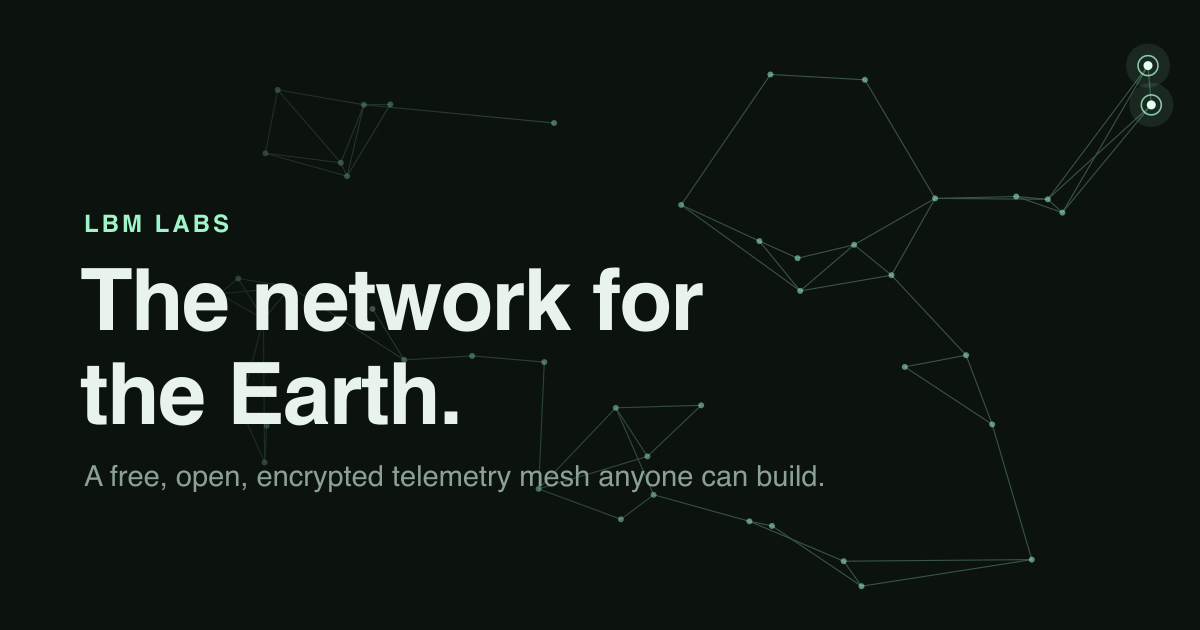
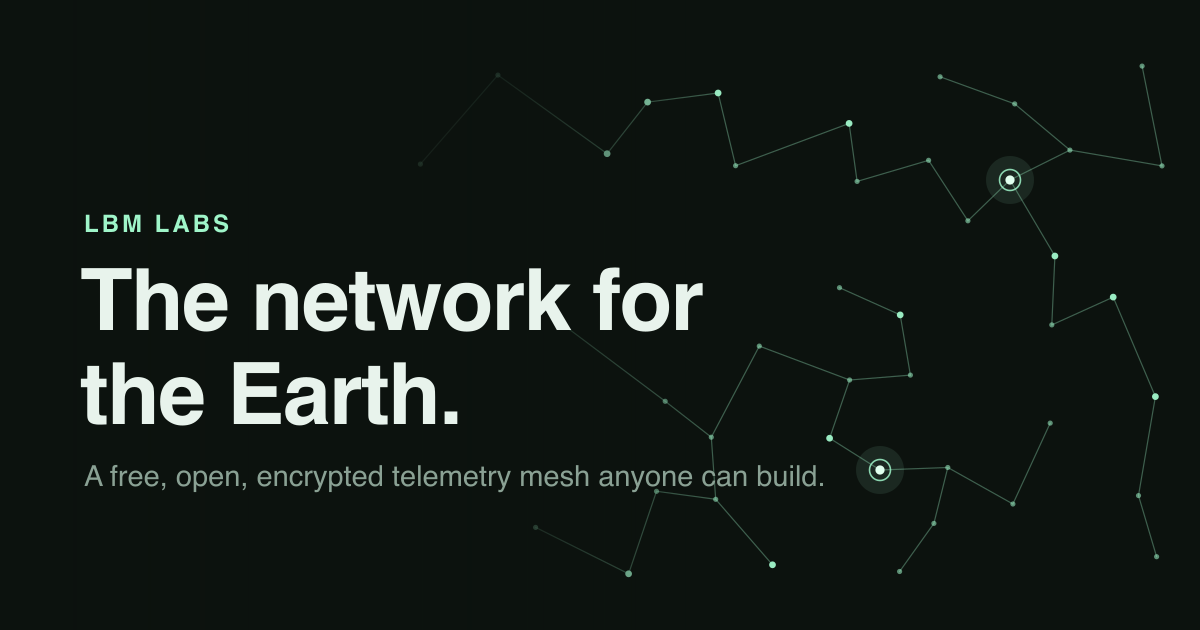
site: regenerate OG card — mesh now a radial tree from two gateways
The previous mesh was random nearest-neighbour links with the two
gateways jammed in the corner. Rebuilt as a Prim/MST tree grown from two
well-spread gateway hubs (like the animation's primary links): organic,
mostly non-crossing, evenly distributed across the right, a few brighter
nodes for life. Reads like the hero now.

diff --git a/scripts/make-og.py b/scripts/make-og.py
@@ -1,9 +1,9 @@
 #!/usr/bin/env python3
 """Generate the social-share card -> public/og.png (1200x630).
-Mirrors the hero: dark field, a living mesh with gateway hubs, the headline.
-Requires rsvg-convert (brew install librsvg) + Pillow.
-Run from the lbmlabs.org/ dir:  python3 scripts/make-og.py
-Regenerate whenever the headline/tagline changes."""
+Mirrors the hero: dark field, a living mesh that radiates from two gateway
+hubs (a Prim/MST tree, like the animation's primary links), the headline.
+Requires rsvg-convert (brew install librsvg).
+Run from the lbmlabs.org/ dir:  python3 scripts/make-og.py"""
 import random, subprocess, os
 
 W, H = 1200, 630
@@ -11,42 +11,61 @@ ACC, HOT, BG, INK, DIM = "#9ff5c9", "#e0ffee", "#0c120e", "#e8f3ec", "#8aa194"
 TITLE = ["The network for", "the Earth."]
 SUB = "A free, open, encrypted telemetry mesh anyone can build."
 
-random.seed(7)
-N = 46
-pts = []
-for _ in range(N):
-    x = (random.uniform(120, W - 40) / W) ** 0.8 * W   # bias toward the right
-    y = random.uniform(40, H - 40)
-    pts.append((x, y))
-links = set()
-for i, (x, y) in enumerate(pts):
-    d = sorted(range(N), key=lambda j: (pts[j][0] - x) ** 2 + (pts[j][1] - y) ** 2)
-    for j in d[1:4]:
-        if random.random() < 0.7:
-            links.add(tuple(sorted((i, j))))
-gws = sorted(range(N), key=lambda i: -pts[i][0])[:2]
+random.seed(11)
+# two gateways, spread out and well inside the right portion of the frame
+GWS = [(1010, 180), (880, 470)]
+# scatter nodes across the right ~65%, biased right, min-spaced
+NODES, MIN = [], 56
+tries = 0
+while len(NODES) < 40 and tries < 4000:
+    tries += 1
+    x = random.uniform(420, 1170)
+    y = random.uniform(55, 575)
+    if x < 660 and random.random() < 0.6:      # thin out the left (text lives there)
+        continue
+    if any((x - px) ** 2 + (y - py) ** 2 < MIN * MIN for px, py in NODES + GWS):
+        continue
+    NODES.append((x, y))
+
+pts = GWS + NODES                              # 0,1 = gateways
+# Prim MST grown from both gateways -> radial, non-crossing, organic
+connected = {0, 1}
+edges = []
+while len(connected) < len(pts):
+    best = bsrc = None; bd = 1e18
+    for j in range(len(pts)):
+        if j in connected:
+            continue
+        for i in connected:
+            d = (pts[i][0] - pts[j][0]) ** 2 + (pts[i][1] - pts[j][1]) ** 2
+            if d < bd:
+                bd, best, bsrc = d, j, i
+    edges.append((bsrc, best)); connected.add(best)
 
 FAM = "Inter, Helvetica, Arial, sans-serif"
 s = [f'<svg xmlns="http://www.w3.org/2000/svg" width="{W}" height="{H}" viewBox="0 0 {W} {H}">',
      f'<rect width="{W}" height="{H}" fill="{BG}"/>',
-     f'<g stroke="{ACC}" stroke-width="1.1" opacity="0.30">']
-for a, b in links:
+     f'<g stroke="{ACC}" stroke-width="1.2" opacity="0.34" stroke-linecap="round">']
+for a, b in edges:
     s.append(f'<line x1="{pts[a][0]:.1f}" y1="{pts[a][1]:.1f}" x2="{pts[b][0]:.1f}" y2="{pts[b][1]:.1f}"/>')
 s.append('</g>')
-s.append(f'<g fill="{ACC}" opacity="0.55">')
-for i, (x, y) in enumerate(pts):
-    if i not in gws:
-        s.append(f'<circle cx="{x:.1f}" cy="{y:.1f}" r="3"/>')
-s.append('</g>')
-for i in gws:
+# nodes (a few brighter, like nodes mid-relay)
+for i in range(2, len(pts)):
     x, y = pts[i]
-    s.append(f'<circle cx="{x:.1f}" cy="{y:.1f}" r="22" fill="{ACC}" opacity="0.10"/>')
-    s.append(f'<circle cx="{x:.1f}" cy="{y:.1f}" r="10" fill="none" stroke="{ACC}" stroke-width="1.6" opacity="0.8"/>')
-    s.append(f'<circle cx="{x:.1f}" cy="{y:.1f}" r="4.5" fill="{HOT}"/>')
+    lit = random.random() < 0.22
+    s.append(f'<circle cx="{x:.1f}" cy="{y:.1f}" r="{3.4 if lit else 2.6:.1f}" fill="{ACC}" opacity="{0.95 if lit else 0.55}"/>')
+# gateways: halo + ring + hot core
+for i in (0, 1):
+    x, y = pts[i]
+    s.append(f'<circle cx="{x:.1f}" cy="{y:.1f}" r="24" fill="{ACC}" opacity="0.10"/>')
+    s.append(f'<circle cx="{x:.1f}" cy="{y:.1f}" r="10.5" fill="none" stroke="{ACC}" stroke-width="1.6" opacity="0.85"/>')
+    s.append(f'<circle cx="{x:.1f}" cy="{y:.1f}" r="4.6" fill="{HOT}"/>')
+# left scrim so the text stays legible over the mesh
 s.append(f'<defs><linearGradient id="scrim" x1="0" y1="0" x2="1" y2="0">'
-         f'<stop offset="0" stop-color="{BG}" stop-opacity="0.92"/>'
+         f'<stop offset="0" stop-color="{BG}" stop-opacity="0.94"/>'
+         f'<stop offset="0.7" stop-color="{BG}" stop-opacity="0.78"/>'
          f'<stop offset="1" stop-color="{BG}" stop-opacity="0"/></linearGradient></defs>')
-s.append(f'<rect width="760" height="{H}" fill="url(#scrim)"/>')
+s.append(f'<rect width="720" height="{H}" fill="url(#scrim)"/>')
 s.append(f'<text x="84" y="232" font-family="{FAM}" font-size="24" font-weight="600" letter-spacing="3" fill="{ACC}">LBM LABS</text>')
 for k, line in enumerate(TITLE):
     s.append(f'<text x="80" y="{330 + k*94}" font-family="{FAM}" font-size="86" font-weight="700" letter-spacing="-1.5" fill="{INK}">{line}</text>')
@@ -54,8 +73,7 @@ s.append(f'<text x="84" y="486" font-family="{FAM}" font-size="29" font-weight="
 s.append('</svg>')
 
 here = os.path.dirname(os.path.dirname(os.path.abspath(__file__)))
-svg_path = "/tmp/og.svg"
-out = os.path.join(here, "public", "og.png")
-open(svg_path, "w").write("\n".join(s))
-subprocess.run(["rsvg-convert", "-w", str(W), "-h", str(H), svg_path, "-o", out], check=True)
-print("wrote", out)
+open("/tmp/og.svg", "w").write("\n".join(s))
+subprocess.run(["rsvg-convert", "-w", str(W), "-h", str(H), "/tmp/og.svg",
+                "-o", os.path.join(here, "public", "og.png")], check=True)
+print("wrote public/og.png")
